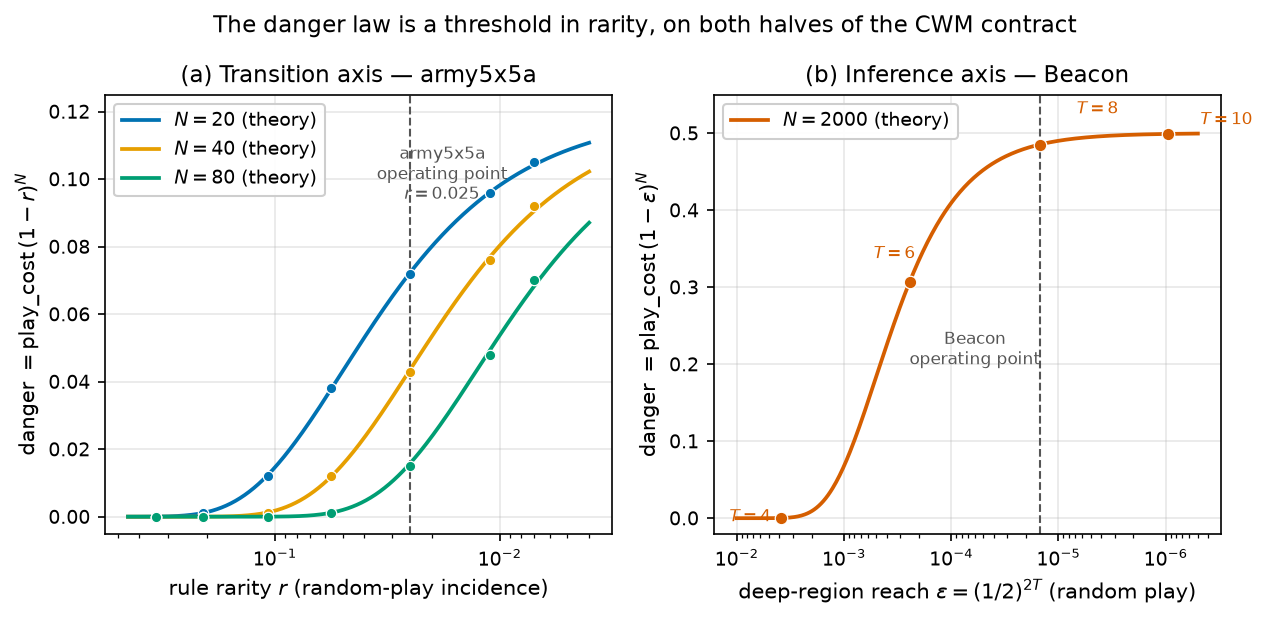
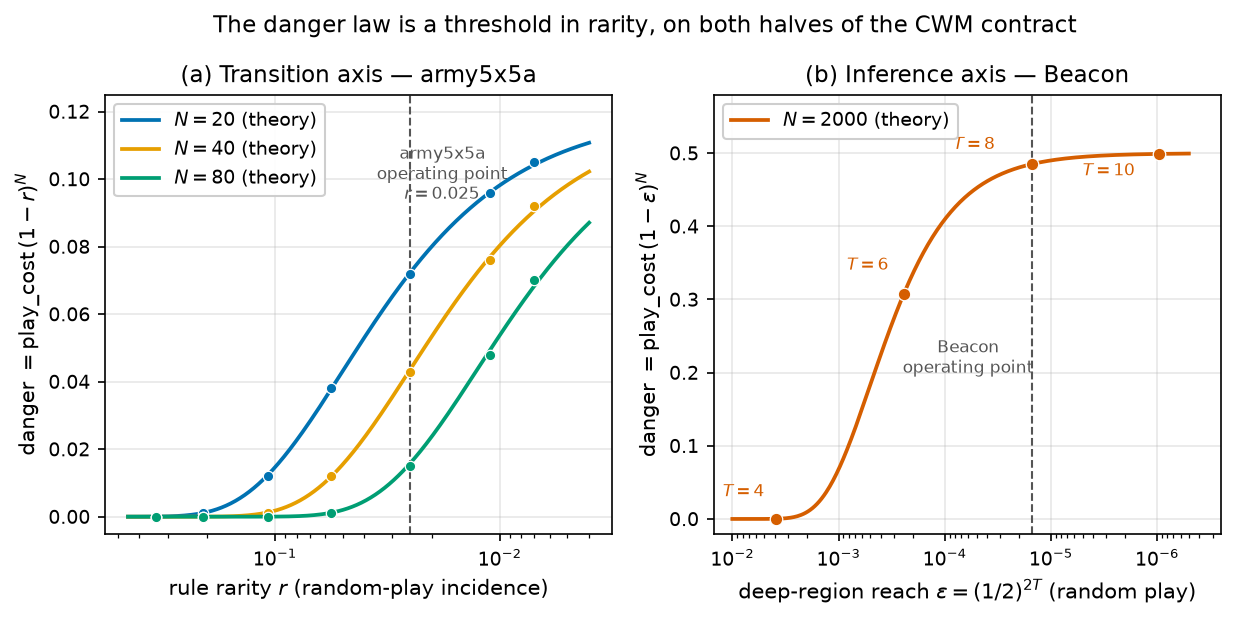
figures: fix clipping/overlap in paper figures
- danger_law panel (b): reposition the T={8,10} operating-point labels
  inward and add top/right axis margins so they are no longer clipped by
  the frame.
- headline_play: move the win-rate value labels above the upper CI cap with
  a light white bbox so the error-bar lines no longer cross the digits.
- reach_divergence: lift the 'gate samples' / 'planner plays' callouts clear
  of their density curves and add a white bbox so the lines don't cut the text.

Claude-Session: https://claude.ai/code/session_01FtDYfTTBAxEzRkwfhCxPZm

diff --git a/scripts/make_paper_figures.py b/scripts/make_paper_figures.py
@@ -132,15 +132,18 @@ def fig_danger_law():
         markeredgewidth=0.6,
         zorder=5,
     )
-    t_offsets = {4: (3.0, -0.005), 6: (2.2, 0.030), 8: (0.45, 0.040), 10: (0.5, 0.012)}
+    # Place each T label inside the frame: dx>1 shifts the text toward larger
+    # eps, i.e. inward (the x axis is inverted), keeping the near-edge points
+    # (T=8, T=10) clear of the top/right frame instead of being clipped by it.
+    t_offsets = {4: (2.0, 0.030), 6: (2.2, 0.033), 8: (3.5, 0.020), 10: (3.0, -0.030)}
     for Ti, ei, di in zip(T, eps, danger_b):
         dx, dy = t_offsets[Ti]
         axB.annotate(
             f"$T={Ti}$",
-            xy=(ei, di),
-            xytext=(ei * dx, di + dy),
+            xy=(ei * dx, di + dy),
             fontsize=8,
             color=C_RED,
+            ha="center",
         )
     axB.axvline(1.5e-5, color=C_GREY, ls="--", lw=1.0)
     axB.annotate(
@@ -155,7 +158,10 @@ def fig_danger_law():
     axB.set_xlabel(r"deep-region reach $\varepsilon=(1/2)^{2T}$ (random play)")
     axB.set_ylabel(r"danger $= \mathrm{play\_cost}\,(1-\varepsilon)^N$")
     axB.set_title("(b) Inference axis — Beacon")
-    axB.set_ylim(-0.02, 0.55)
+    # Give the near-edge T labels headroom (top) and a right-hand margin so no
+    # text is clipped by the frame. Set limits before inverting the axis.
+    axB.set_xlim(2.5e-7, 1.5e-2)
+    axB.set_ylim(-0.02, 0.58)
     axB.legend(loc="upper left", framealpha=0.95)
     axB.invert_xaxis()
 
@@ -194,8 +200,14 @@ def fig_headline_play():
     )
     ax.text(0.56, 0.441, "intervals\nseparated", color=C_GREEN, fontsize=8, va="center")
 
-    for xi, p in zip(x, point):
-        ax.text(xi, p + 0.001, f"{p:.3f}", ha="center", va="bottom", fontsize=9)
+    # Put each value label above the upper CI cap (not on the bar) so the
+    # vertical error-bar line no longer crosses through the digits; a light
+    # white bbox keeps it legible over the gridlines.
+    for xi, p, h in zip(x, point, hi):
+        ax.text(
+            xi, h + 0.006, f"{p:.3f}", ha="center", va="bottom", fontsize=9,
+            bbox=dict(boxstyle="round,pad=0.15", fc="white", ec="none", alpha=0.85),
+        )
 
     ax.set_xticks(x)
     ax.set_xticklabels(labels)
@@ -275,10 +287,14 @@ def fig_reach_schematic():
         arrowprops=dict(arrowstyle="->", color=C_GREEN, lw=1.4),
     )
 
-    ax.annotate("gate samples\n" r"$\propto \rho$", xy=(1.0, 0.50),
-                fontsize=8.5, color=C_BLUE, ha="center")
-    ax.annotate("planner plays\n" r"$\propto \Pi$", xy=(9.1, 0.55),
-                fontsize=8.5, color=C_RED, ha="center")
+    # Sit both callouts clear above their curves, with a light white bbox, so
+    # the density lines no longer cut through the text.
+    ax.annotate("gate samples\n" r"$\propto \rho$", xy=(1.5, 0.60),
+                fontsize=8.5, color=C_BLUE, ha="center",
+                bbox=dict(boxstyle="round,pad=0.2", fc="white", ec="none", alpha=0.8))
+    ax.annotate("planner plays\n" r"$\propto \Pi$", xy=(9.15, 0.62),
+                fontsize=8.5, color=C_RED, ha="center",
+                bbox=dict(boxstyle="round,pad=0.2", fc="white", ec="none", alpha=0.8))
 
     ax.set_xticks([0.4, 9.6])
     ax.set_xticklabels(["shallow / common\nhistories", "deep / rare\nhistories"])